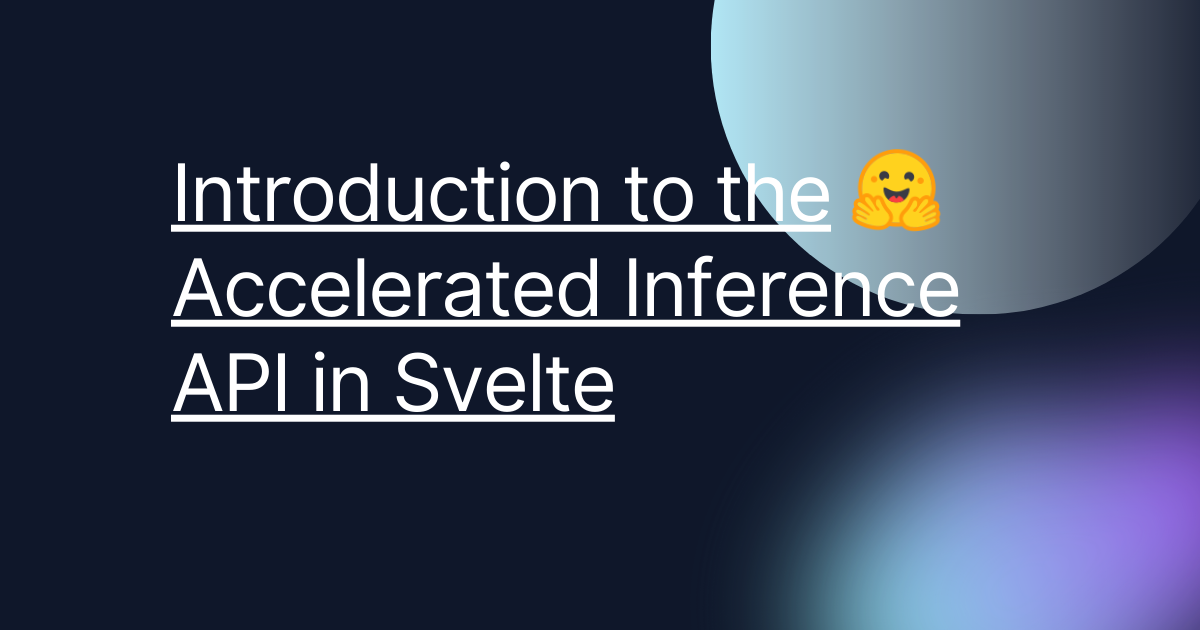
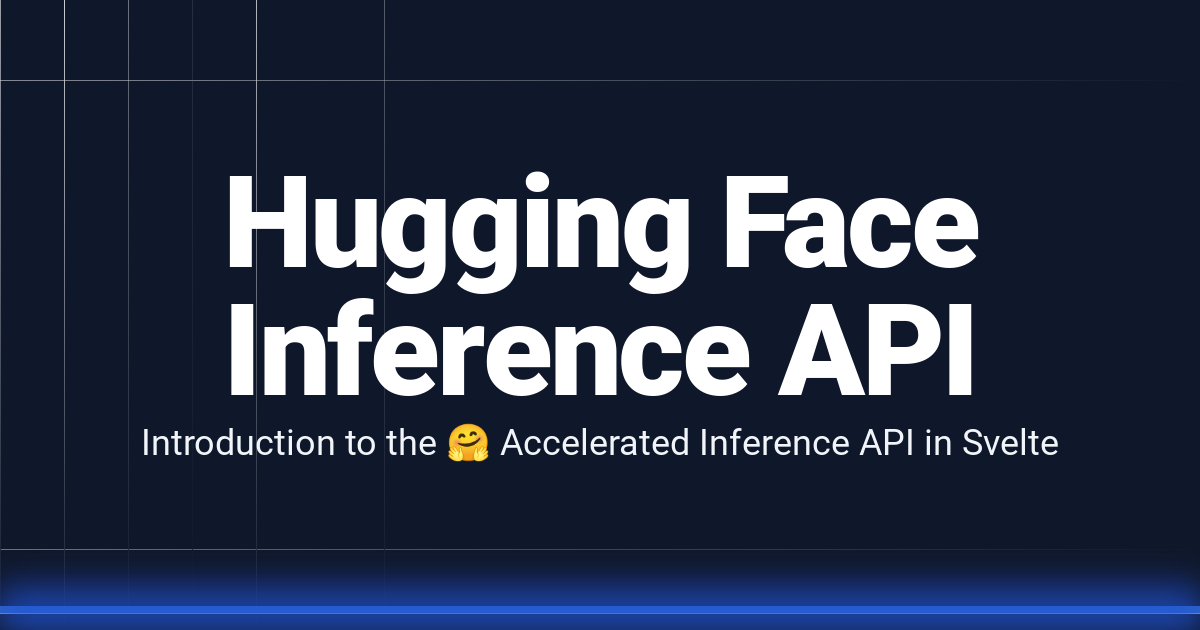
meta

diff --git a/src/routes/tutorials/huggingface/index.svelte b/src/routes/tutorials/huggingface/index.svelte
@@ -192,19 +192,14 @@
 </script>
 
 <svelte:head>
-	<title>Introduction to the 🤗 Accelerated Inference API in Svelte</title>
-	<meta
-		property="og:title"
-		content="Hugging Face is the easiest way to build, train, and deploy machine learning models."
-	/>
-	<meta property="og:site_name" content="Svelte Board" />
-	<meta
-		property="og:description"
-		content="Generate speech from text with the Hugging Face Inference API."
-	/>
-	<meta property="og:type" content="article" />
-	<meta property="og:image" content="https://svelteboard.com/content/InferenceAPI.png" />
-	<meta name="twitter:card" content="summary_large_image" />
+	<title>Hugging Face Inference API Tutorial</title>
+<meta property="og:title" content="Hugging Face API in Svelte" />
+<meta property="og:site_name" content="Svelte Board"/>
+<meta property="og:url" content="https://svelteboard.com/tutorials/huggingface"/>
+<meta property="og:description" content="Getting started with the Hugging Face Inference API in Svelte to get started with Natural Language Processing in your app." />
+<meta property="og:type" content="article" />
+<meta property="og:image" content="https://svelteboard.com/InferenceAPI.png" />
+<meta name="twitter:card" content="summary_large_image" />
 </svelte:head>
 <div class="max-w-4xl m-auto mt-20 p-4 text-center">
 	<h1 class="text-3xl tracking-tight font-extrabold text-slate-900">

diff --git a/src/routes/tutorials/huggingface/text-to-speech.svelte b/src/routes/tutorials/huggingface/text-to-speech.svelte
@@ -128,7 +128,8 @@ let prompt =
 		content="Generate speech from text with the Hugging Face Inference API."
 	/>
 	<meta property="og:type" content="article" />
-	<meta property="og:image" content="/content/Text-to-Speech-with-Hugging-Face.png" />
+	<meta property="og:image" content="/content/text-to-speech.png" />
+	<meta name="twitter:card" content="summary_large_image" />
 </svelte:head>
 
 <div class="max-w-4xl m-auto mt-20 p-4 text-center">

diff --git a/src/routes/tutorials/color-experiment.svelte b/src/routes/tutorials/color-experiment.svelte
@@ -203,7 +203,7 @@
 		id="screen"
 	>
 		<div
-			class="border shadow-xl max-w-full m-auto mt-9 relative overflow-hidden {phone
+			class="border shadow-xl max-w-full m-auto mt-9 relative overflow-clip {phone
 				? 'rounded-[60px] border-[14px] border-black'
 				: ''}"
 			style="width:{w}px; height:{h}px"
